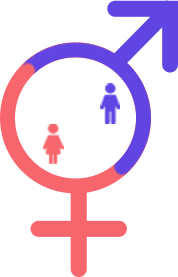
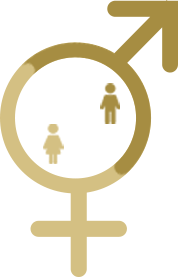
change6date

Changed region(s): [[0.0, 0.0, 1.0, 1.0], [0.5618, 0.2888, 0.6742, 0.4621]]

diff --git a/src/routes/IndexPage.scss b/src/routes/IndexPage.scss
@@ -1,4 +1,4 @@
-$color:#6045e3;
+$color:#a68d42;
 .fadeOutLeft{opacity: 0;}
 #canvas{z-index: -1;}
 .normal {
@@ -14,9 +14,9 @@ $color:#6045e3;
     touch-action: none;
    width: 100%;height: 100%; text-align: center;
     .arowUpImg{ position: fixed; bottom: 18vh; left: 50%; transform: translateX(-50%);width: 9.3vw; z-index: 11; background: url(../../public/images/arrowup.png) no-repeat center top; background-size: 100% 100%; height: 6.5vw;}
-    .logoImg{ width:51vw; margin-top: 7.6vw;}
+    .logoImg{ width:26vw; margin: 17.6vw auto auto;}
     .monthtextImg{ width:57vw; margin-top: 9.7vw;}
-    .textImg{width: 82.6vw;margin-top: 8vw;}
+    .textImg{width: 82.6vw;margin-top: 9vw;}
     .text2Img{width: 82.6vw;}
     .subSection{width: 100vw; height: 100vh; overflow: hidden;}
     .index1{ overflow: auto;}
@@ -146,7 +146,7 @@ $color:#6045e3;
                   
                     img{width: 2.6vw; height: auto; margin-right:3vw;}
                     .p-box{ height: 7vw; width: 50%; background-color: $color;color:#fff; display:flex; align-items: center; text-indent: 1.5vw;}
-                    .p-box2{ background-color: #f7666d}
+                    .p-box2{ background-color: #d4c083}
                 }
             }
             .s-con2{
@@ -159,7 +159,7 @@ $color:#6045e3;
 .humanNum{background-color:#f7666d; }
     }
     .slide8{
-        color:#222; padding-top: 18.7vw;
+        color:#fff; padding-top: 18.7vw;
         p{
             span{font-size: 6vw; font-weight: bold}
         }
@@ -183,3 +183,4 @@ $color:#6045e3;
 }    
 .normal .slide6 .echart1{ margin-left: -8vw; margin-right:-8vw; }
 .normal .slide3 .echart1{ margin-left: -8vw; margin-right:-8vw; }
+.darkbgFadein{width: 100vw; height: 100vh; background-color: rgba(0,0,0,.6); position: absolute; left: 0; top: 0;}

diff --git a/src/components/slide1.js b/src/components/slide1.js
@@ -9,11 +9,12 @@ const Slide1 = (props) => {
   const {curPage, ajaxData} = props && props.props.month
   return (
     <div>
+      <div  className={`${curPage!=0?'animated fadeIn darkbgFadein':''}`}></div>
     <div className='slidebg slide1'>
       <div className={`${curPage==1?'title animated fadeInUp':'title animated fadeOutUp'}`}>
       <img src={title} alt='' />
       </div>
-      <div className={`${curPage==1?'zongshu animated fadeInUp':'zongshu animated fadeOutUp'}`}>国佳财富平台截止至{ajaxData[1]?ajaxData[1].data1:''}，平台成交量超过<span>{ajaxData[1]?ajaxData[1].data2:''}</span>万元，用户收益超<span>{ajaxData[1]?ajaxData[1].data3:''}</span>万元。十月份平台顺利完成了对银行资金存管系统的全新升级，优化便捷了转账充值的操作方式，以及恢复了快捷支付充值渠道。平台一直用心经营，在服务效率、用户体验等多方面不断提升，不断优化改进。</div>
+      <div className={`${curPage==1?'zongshu animated fadeInUp':'zongshu animated fadeOutUp'}`}>国佳财富平台截止至{ajaxData[1]?ajaxData[1].data1:''}，平台成交量超过<span>{ajaxData[1]?ajaxData[1].data2:''}</span>万元，用户收益超<span>{ajaxData[1]?ajaxData[1].data3:''}</span>万元。今年平台接入了国家互联网应急中心实时数据报送系统，顺利完成了对资金存管系统的全新升级，平台一直坚守初心 ，在稳健发展、合规运营之路上前行，并与出借人携手共进，共创辉煌。</div>
       <div className='slideBox'>
       <div className={`${curPage==1?'slideContent animated fadeInUp':'slideContent animated fadeOutUp'}`}>
           <div className='l-content'>

diff --git a/src/routes/IndexPage.js b/src/routes/IndexPage.js
@@ -71,10 +71,10 @@ class IndexPage extends React.Component {
        :<ActivityIndicator>...loading</ActivityIndicator>}
        {curPage==8?'':<div className='arowUpImg' alt='' onClick={e => this.slider.slickGoTo(curPage-(-1))}></div>}
         {/* <canvas id='canvas'></canvas> */}
-         <img src={lg} alt='' className={`indeximg2 animated fadeInUp`} />
-        <img src={train} alt='' className={`indeximg3 animated fadeInUp`} />
-        <img src={tree} alt='' className={`indeximg4 animated fadeInUp`} />
-        <img src={brige} alt='' className={`indeximg5 animated fadeInUp`} /> 
+         {/* <img src={lg} alt='' className={`indeximg2 animated fadeInUp`} /> */}
+        {/* <img src={train} alt='' className={`indeximg3 animated fadeInUp`} /> */}
+        {/* <img src={tree} alt='' className={`indeximg4 animated fadeInUp`} /> */}
+        {/* <img src={brige} alt='' className={`indeximg5 animated fadeInUp`} />  */}
       </div>
     )
   }

diff --git a/src/utils/changeData.js b/src/utils/changeData.js
@@ -28,7 +28,7 @@
           )
           //3出借方式
           pageDatas.push({
-              data1:['rgb(96, 69, 227)', '#cccccc'],
+              data1:['#a68d42', '#cccccc'],
               data2:savePointTow(data.auto_invest_percent * 1000) + '%',
               data3:savePointTow(data.manual_invest_percent * 1000) +
               '%',
@@ -62,7 +62,7 @@
                 return {
                     value: i.month_borrow_count,
                     name:  i.month_borrow_day,
-                    money: tochangeMoney(i.month_borrow_money.toString().split('.')[0], 4),
+                    money: tochangeMoney(i.month_borrow_money.toString().split('.')[0], 4).split('<span>万</span>')[0]+'<span>万</span>',
                 }
             }):bd.map(function (i, index) {
                 return {

diff --git a/src/components/slide0.js b/src/components/slide0.js
@@ -8,7 +8,7 @@ const Slide1 = (props) => {
   return (
     <div>
       <div>
-        <img src={logo} alt='' className={`${curPage==0?'logoImg animated fadeInUp':'logoImg animated fadeOutUp'}`} />
+        <img src={logo} alt='' className={`${curPage==0?'logoImg animated fadeInUp':'logoImg animated fadeOutUp'}`} /><br />
         <img src={monthtext} alt='' className={`${curPage==0?'monthtextImg animated fadeInUp':'monthtextImg animated fadeOutUp'}`} />
         <img src={text} alt='' className={`${curPage==0?'textImg animated fadeInUp':'textImg animated fadeOutUp'}`} />
         {/* <img src={text2} alt='' className={`${curPage==0?'text2Img animated fadeInUp':'text2Img animated fadeOutUp'}`} /> */}

diff --git a/src/components/slide8.js b/src/components/slide8.js
@@ -5,6 +5,7 @@ const Slide1 = (props) => {
   const {curPage} = props && props.props.month
   return (
     <div>
+      <div  className={`${curPage!=0?'animated fadeIn darkbgFadein':''}`}></div>
       <div className='slide8'>
         <p className={`${curPage==8?'animated fadeInUp':'title animated fadeOutUp'}`}>如果您还想了解国佳财富更多的动态信息，</p>
         <p  className={`${curPage==8?'animated fadeInUp':'title animated fadeOutUp'}`}>请关注我们的 <span>国佳财富服务号</span></p>

diff --git a/src/components/slide7.js b/src/components/slide7.js
@@ -10,6 +10,7 @@ const Slide1 = (props) => {
   const {curPage, ajaxData} = props && props.props.month
   return (
     <div>
+       <div  className={`${curPage!=0?'animated fadeIn darkbgFadein':''}`}></div>
       <div className='slidebg slide7'>
         <div className={`${curPage==7?'title animated fadeInUp':'title animated fadeOutUp'}`}>
           <img src={title} alt='' />

diff --git a/src/components/slide2.js b/src/components/slide2.js
@@ -7,6 +7,7 @@ const Slide1 = (props) => {
   const {curPage, ajaxData} = props && props.props.month
   return (
     <div>
+       <div  className={`${curPage!=0?'animated fadeIn darkbgFadein':''}`}></div>
     <div className='slidebg slide2'>
       <div className={`${curPage==2?'title animated fadeInUp':'title animated fadeOutUp'}`}>
       <img src={title} alt='' />

diff --git a/src/components/slide4.js b/src/components/slide4.js
@@ -9,6 +9,7 @@ const Slide1 = (props) => {
   const {curPage, ajaxData} = props && props.props.month
   return (
     <div>
+       <div  className={`${curPage!=0?'animated fadeIn darkbgFadein':''}`}></div>
     <div className='slidebg slide4'>
       <div className={`${curPage==4?'title animated fadeInUp':'title animated fadeOutUp'}`}>
       <img src={title} alt='' />

diff --git a/src/components/slide5.js b/src/components/slide5.js
@@ -7,6 +7,7 @@ const Slide1 = (props) => {
   const {curPage, ajaxData} = props && props.props.month
   return (
     <div>
+       <div  className={`${curPage!=0?'animated fadeIn darkbgFadein':''}`}></div>
     <div className='slidebg slide2'>
       <div className={`${curPage==5?'title animated fadeInUp':'title animated fadeOutUp'}`}>
       <img src={title} alt='' />

diff --git a/src/components/slide3.js b/src/components/slide3.js
@@ -34,6 +34,7 @@ const Slide1 = (props) => {
   }
   return (
     <div>
+       <div  className={`${curPage!=0?'animated fadeIn darkbgFadein':''}`}></div>
       <div className='slidebg slide3'>
         <div className={`${curPage == 3 ? 'title animated fadeInUp' : 'title animated fadeOutUp'}`}>
           <img src={title} alt='' />

diff --git a/src/components/slide6.js b/src/components/slide6.js
@@ -33,6 +33,7 @@ const Slide1 = (props) => {
 };
   return (
     <div>
+       <div  className={`${curPage!=0?'animated fadeIn darkbgFadein':''}`}></div>
       <div className='slidebg slide6'>
         <div className={`${curPage==6?'title animated fadeInUp':'title animated fadeOutUp'}`}>
           <img src={title} alt='' />
